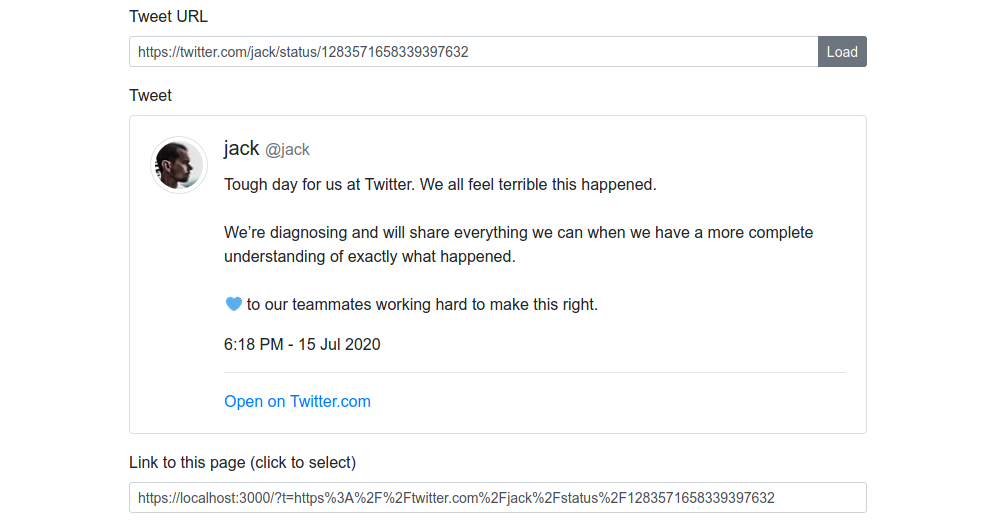
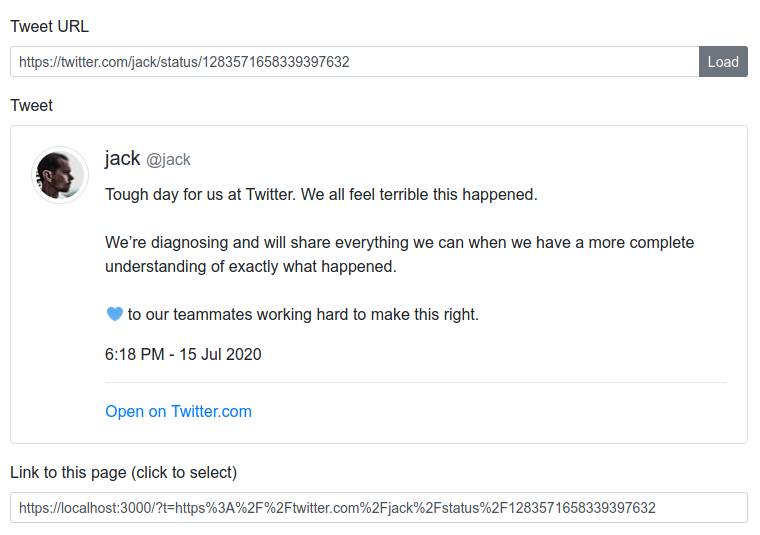
fix: don't show link to page unless a tweet is loaded

diff --git a/src/pages/index.tsx b/src/pages/index.tsx
@@ -230,17 +230,19 @@ function HomePage(props: { host: string }): JSX.Element {
             ) : null}
           </div>
 
-          <div className="form-group">
-            <label htmlFor="sharePath">
-              Link to this page (click to select)
-            </label>
-            <input
-              className="form-control form-control-sm"
-              id="sharePath"
-              value={`https://${props.host}${router.asPath}`}
-              onChange={() => {}}
-            />
-          </div>
+          {error === undefined && data !== undefined && !parseError ? (
+            <div className="form-group">
+              <label htmlFor="sharePath">
+                Link to this page (click to select)
+              </label>
+              <input
+                className="form-control form-control-sm"
+                id="sharePath"
+                value={`https://${props.host}${router.asPath}`}
+                onChange={() => {}}
+              />
+            </div>
+          ) : null}
         </div>
       </div>
     </>
